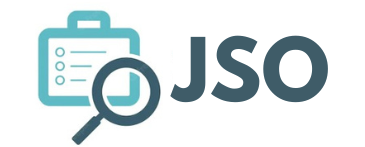
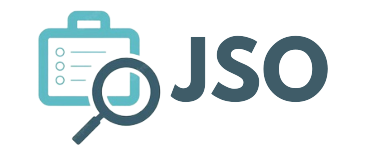
Create side-bar
- Removing the background from the logo image
- Creating a SideBar component
- Creating a SideBarItem component
- Removing the modules buttons from the Header component
- Removing comments from the signIn page

diff --git a/client-app/src/components/SideBar.js b/client-app/src/components/SideBar.js
@@ -1,0 +1,111 @@
+import * as React from 'react';
+import Box from '@mui/material/Box';
+import Drawer from '@mui/material/Drawer';
+import Toolbar from '@mui/material/Toolbar';
+import List from '@mui/material/List';
+import Collapse from '@mui/material/Collapse';
+import WorkHistoryIcon from '@mui/icons-material/WorkHistory';
+import WorkOffIcon from '@mui/icons-material/WorkOff';
+import WorkIcon from '@mui/icons-material/Work';
+import BusinessCenterOutlinedIcon from '@mui/icons-material/BusinessCenterOutlined';
+import SideBarItem from './SideBarItem';
+import PeopleIcon from '@mui/icons-material/People';
+
+
+const drawerWidth = 240;
+
+class SideBarButtons {
+  constructor(text, icon, subMenuButtons, isInsideSubList) {
+    this.text = text;
+    this.icon = icon;
+    this.subMenuButtons = subMenuButtons;
+    this.isInsideSubList = isInsideSubList;
+  }
+}
+
+
+export default function SideBar() {
+
+  const [isExtended, setIsExtended] = React.useState(true);
+
+  const nestedListOfButtons = [
+    new SideBarButtons("Pending", <WorkHistoryIcon />, null, true),
+    new SideBarButtons("Open", <WorkIcon />, null, true),
+    new SideBarButtons("Closed", <WorkOffIcon />, null, true),
+  ];
+  
+  const ListOfButtons = [
+    new SideBarButtons("Processes", <BusinessCenterOutlinedIcon />, nestedListOfButtons, false),
+    new SideBarButtons("Networking", <PeopleIcon />, null, false),
+  ];
+
+//TODO: here need to render the corresponding page content according the button that was clicked
+  function handleListItemClick(page){
+    if(page === "Processes"){
+      setIsExtended(!isExtended);
+    }
+    console.log(page);
+  }
+
+  function renderItem(item, index){
+    return(
+      <SideBarItem 
+        handleListItemClick={()=>{handleListItemClick(item.text);}}
+        icon={item.icon}
+        text={item.text}
+        isExtended={isExtended}
+        key={item.text}
+        isInsideSubList={item.isInsideSubList}
+      />
+    );
+  }
+
+  function renderListItems(list){
+    return(
+      list.map((item, index) => {
+        return (
+          <>
+          {renderItem(item, index)}
+          {item.subMenuButtons !== null && renderSubListItems(item.subMenuButtons)}
+          </>
+        );
+      })
+    );
+  }
+
+  function renderSubListItems(subMenuItems){
+    return (
+      <>
+        <Collapse in={isExtended} timeout="auto" unmountOnExit>
+          <List component="div" disablePadding>
+            {subMenuItems.map((item, index) => {
+              return (
+                <>
+                  {renderItem(item, index)}
+                </> 
+              );
+            })}
+          </List>
+        </Collapse>
+      </>
+    );
+  }
+
+  return (
+      <Drawer
+        variant="permanent"
+        sx={{
+          width: drawerWidth,
+          flexShrink: 0,
+          [`& .MuiDrawer-paper`]: { width: drawerWidth, boxSizing: 'border-box' },
+        }}
+      >
+        <Toolbar />
+        <Box sx={{ overflow: 'auto' }}>
+          <List>
+            {renderListItems(ListOfButtons)}
+          </List>          
+        </Box>
+      </Drawer>
+  );
+}

diff --git a/client-app/src/components/Header.js b/client-app/src/components/Header.js
@@ -1,19 +1,19 @@
 import * as React from 'react';
 import AppBar from '@mui/material/AppBar';
-import Button from '@mui/material/Button';
 import Toolbar from '@mui/material/Toolbar';
 import Typography from '@mui/material/Typography';
 import Box from '@mui/material/Box';
 
-
 export default function Header(){
+    
     return(
         <>
             <AppBar
-                position="static"
                 color="default"
+                position="fixed"
                 elevation={0}
-                sx={{ borderBottom: (theme) => `1px solid ${theme.palette.divider}` }}
+                // sx={{ borderBottom: (theme) => `1px solid ${theme.palette.divider}` }}
+                sx={{ zIndex: (theme) => theme.zIndex.drawer + 1 }}
             >
                 <Toolbar sx={{ flexWrap: 'wrap' }}>
                     <Box
@@ -26,12 +26,6 @@ export default function Header(){
                     />
                     <Typography sx={{ flexGrow: 1 }}>
                     </Typography>
-                    <Button href="#" variant="outlined" sx={{ my: 1, mx: 1.5 }}>
-                        Jobs
-                    </Button>
-                    <Button href="#" variant="outlined" sx={{ my: 1, mx: 1.5 }}>
-                        networking
-                    </Button>
                 </Toolbar>
             </AppBar>
         </>

diff --git a/client-app/src/pages/SignIn.js b/client-app/src/pages/SignIn.js
@@ -1,18 +1,4 @@
 import * as React from 'react';
-// import Avatar from '@material-ui/core/Avatar';
-// import Button from '@material-ui/core/Button';
-// import CssBaseline from '@material-ui/core/CssBaseline';
-// import TextField from '@material-ui/core/TextField';
-// import FormControlLabel from '@material-ui/core/FormControlLabel';
-// import Checkbox from '@material-ui/core/Checkbox';
-// import Link from '@material-ui/core/Link';
-// import Grid from '@material-ui/core/Grid';
-// import Box from '@material-ui/core/Box';
-// import LockOutlinedIcon from '@material-ui/icons/LockOutlined';
-// import Typography from '@material-ui/core/Typography';
-// import { makeStyles } from '@material-ui/core/styles';
-// import Container from '@material-ui/core/Container';
-
 import Avatar from '@mui/material/Avatar';
 import Button from '@mui/material/Button';
 import CssBaseline from '@mui/material/CssBaseline';

diff --git a/client-app/src/components/SideBarItem.js b/client-app/src/components/SideBarItem.js
@@ -1,0 +1,23 @@
+import * as React from 'react';
+import ListItemButton from '@mui/material/ListItemButton';
+import ListItemIcon from '@mui/material/ListItemIcon';
+import ListItemText from '@mui/material/ListItemText';
+import ExpandLess from '@mui/icons-material/ExpandLess';
+import ExpandMore from '@mui/icons-material/ExpandMore';
+
+export default function SideBarItem({ icon, handleListItemClick, text, isExtended, isInsideSubList}) {
+
+    return (
+        <ListItemButton 
+            onClick={handleListItemClick}
+            sx={{pl: isInsideSubList === true ? 5 : 2 }}
+        >
+            <ListItemIcon>
+                {icon}
+            </ListItemIcon>
+        <ListItemText primary={text} />
+        {text === "Processes" ? (isExtended ? <ExpandLess /> : <ExpandMore />) : null}
+        
+        </ListItemButton>
+    );
+}

diff --git a/client-app/src/components/App.js b/client-app/src/components/App.js
@@ -1,14 +1,25 @@
 import React from "react";
+import CssBaseline from '@mui/material/CssBaseline';
+import Box from '@mui/material/Box';
+import Toolbar from '@mui/material/Toolbar';
 import Header from "./Header";
 import SignUp from "../pages/SignUp";
 import SignIn from "../pages/SignIn";
+import SideBar from "./SideBar";
 
 function App() {
   return (
-    <div className="App">
+    <>
+      <Box sx={{ display: 'flex' }}>
+        <CssBaseline />
         <Header />
-        <SignUp />
-    </div>
+        <SideBar />
+        <Box component="main" sx={{ flexGrow: 1, p: 3 }}>
+          <Toolbar />
+          {/* TODO: here will be the content of the page */}
+        </Box>
+      </Box>
+    </>
   );
 }
 
